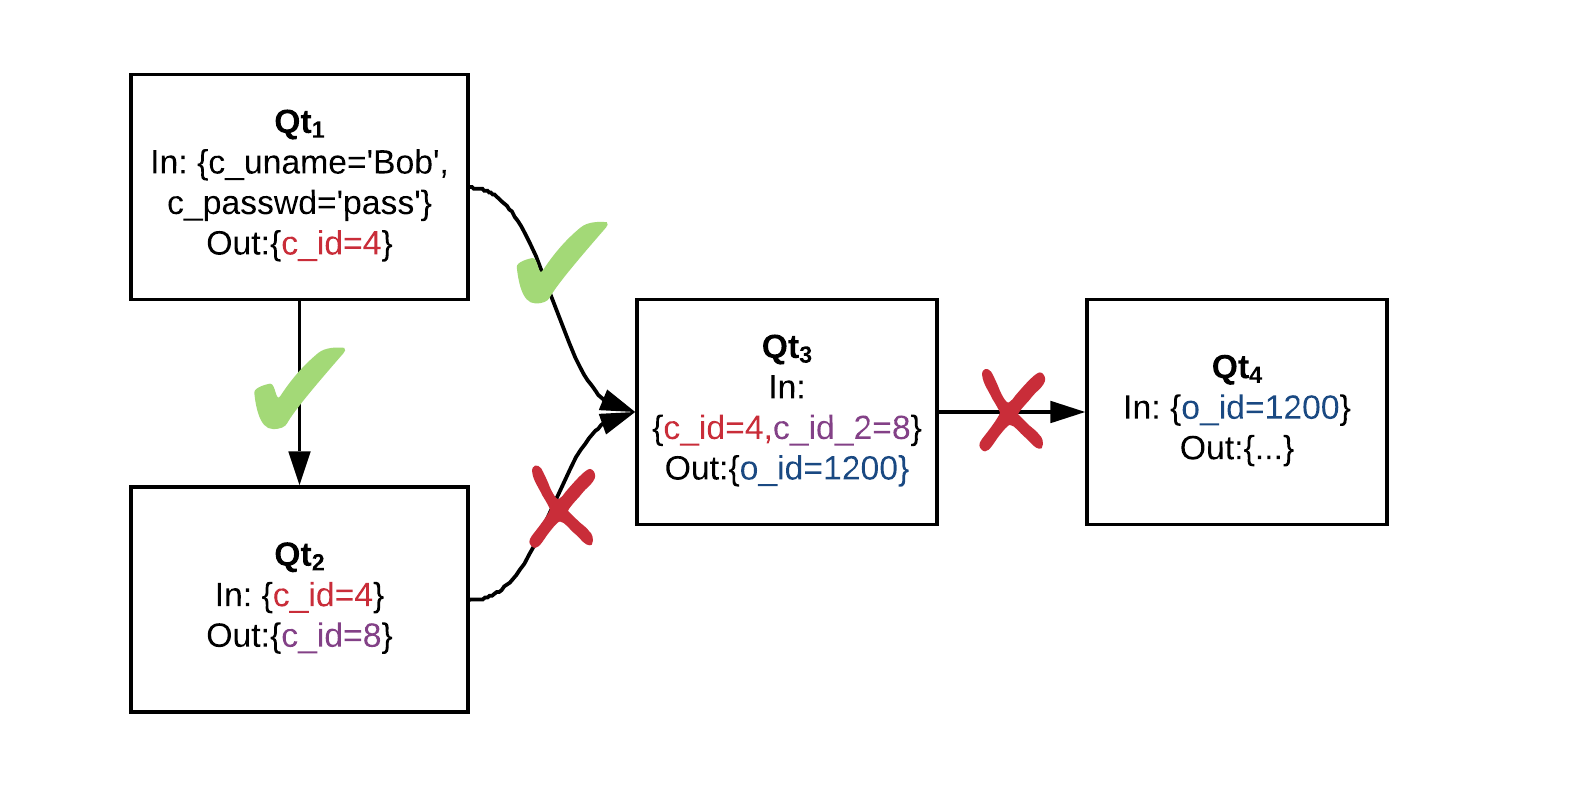
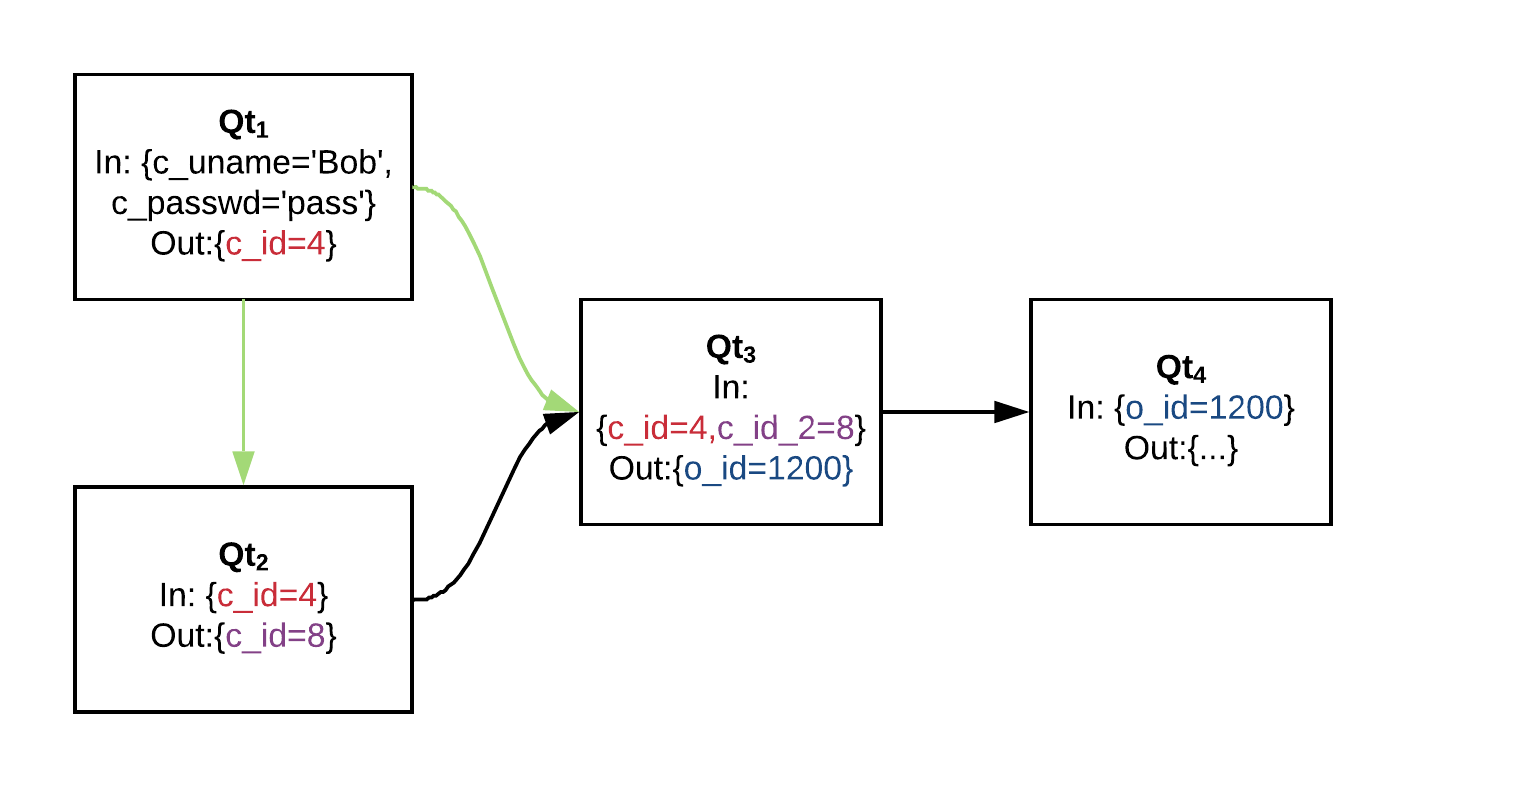
Fix per michael's comments

Changed region(s): [[0.0309, 0.0914, 0.8973, 0.9137], [0.1547, 0.4264, 0.2166, 0.6091]]

diff --git a/demo.tex b/demo.tex
@@ -193,6 +193,56 @@ O_C_ID = (*@ \cfbox{red}{@C\_ID} @*)
 
 \section{Predictive Query Model}
 
+\begin{frame}[fragile]{Apollo Overview}
+    \begin{figure}
+        \hspace*{-1cm}
+        \includegraphics[scale=0.13]{apollo_overview}
+    \end{figure}
+\end{frame}
+
+\begin{frame}[fragile]{Apollo Overview}
+    \begin{figure}
+        \hspace*{-1cm}
+        \includegraphics[scale=0.13]{apollo_overview_2}
+    \end{figure}
+\end{frame}
+
+\begin{frame}[fragile]{Apollo Overview}
+    \begin{figure}
+        \hspace*{-1cm}
+        \includegraphics[scale=0.13]{apollo_overview_3}
+    \end{figure}
+\end{frame}
+
+\begin{frame}[fragile]{Apollo Overview}
+    \begin{figure}
+        \hspace*{-1cm}
+        \includegraphics[scale=0.13]{apollo_overview_4}
+    \end{figure}
+\end{frame}
+
+\begin{frame}[fragile]{Apollo Overview}
+    \begin{figure}
+        \hspace*{-1cm}
+        \includegraphics[scale=0.13]{apollo_overview_5}
+    \end{figure}
+\end{frame}
+
+\begin{frame}[fragile]{Apollo Overview}
+    \begin{figure}
+        \hspace*{-1cm}
+        \includegraphics[scale=0.13]{apollo_overview_6}
+    \end{figure}
+\end{frame}
+
+\begin{frame}[fragile]{Apollo Overview}
+    \begin{figure}
+        \hspace*{-1cm}
+        \includegraphics[scale=0.13]{apollo_overview_7}
+    \end{figure}
+\end{frame}
+
+
 
 \begin{frame}[fragile]{A Query Submission}
     \begin{center}
@@ -204,7 +254,13 @@ O\_C\_ID = \cfbox{red}{3}
     \end{center}
 \end{frame}
 
-\begin{frame}[fragile]{Abstracting to Query Templates}
+
+\begin{frame}[fragile]{Query Templates}
+    Two query instances, $Q_1$, $Q_2$ share the same \alert{query template} if they have the same
+    query text modulo \emph{parameterizable constants}.
+\end{frame}
+
+\begin{frame}[fragile]{Abstracting Query Instances to Query Templates}
     \begin{center}
 SELECT \cfbox{red}{C\_ID} FROM CUSTOMER WHERE
 C\_UNAME = \textbf{?} and C\_PASSWD = \textbf{?}
@@ -213,6 +269,7 @@ SELECT MAX(O\_ID) FROM ORDERS WHERE
 O\_C\_ID = \cfbox{red}{\textbf{?}}
     \end{center}
 \end{frame}
+
 
 \begin{frame}[fragile]{Client Query Streams}
     \begin{figure}
@@ -259,6 +316,14 @@ O\_C\_ID = \cfbox{red}{\textbf{?}}
 
 \begin{frame}[fragile]{Client Query Streams}
     \begin{figure}
+        \includegraphics[scale=0.2]{apollo_client_query_stream_2_1}
+    \end{figure}
+\end{frame}
+
+
+
+\begin{frame}[fragile]{Client Query Streams}
+    \begin{figure}
         \includegraphics[scale=0.2]{apollo_client_query_stream_3}
     \end{figure}
 \end{frame}
@@ -280,7 +345,8 @@ O\_C\_ID = \cfbox{red}{\textbf{?}}
         \includegraphics[scale=0.2]{apollo_transition_graph}
     \end{figure}
     \visible<2->{
-        $P(Qt_{2}|Qt_{1};T\leq\Delta t) = \frac{75}{75} = 1$\\
+        Probability of seeing $Qt_{2}$ within sliding window after we've seen $Qt_{1}$:\\
+        $P(Qt_{2}|Qt_{1};T\leq\Delta t) = \frac{\textrm{times } Qt_{2} \textrm{ executed within window of } Qt_{1}}{\textrm{times } Qt_{1} \textrm{ executed}} =\frac{75}{75} = 1$\\
     }
     \visible<3->{
         $P(Qt_{3}|Qt_{1};T\leq\Delta t) = \frac{10}{50} = \frac{1}{5}$
@@ -292,7 +358,7 @@ O\_C\_ID = \cfbox{red}{\textbf{?}}
     \begin{itemize}
         \item{How often a query template is executed}
         \visible<2->{
-        \item{Which query templates are \alert{correlated} with each other. If correlation is sufficient high ($> \tau$ threshold), then we
+        \item{Which query templates are \alert{correlated} with each other. If correlation is sufficient high ($>$ correlation threshold), then we
         monitor input and output sets for the queries.}
         }
     \end{itemize}
@@ -331,7 +397,7 @@ O\_C\_ID = \cfbox{red}{\textbf{?}}
     \end{figure}
 \end{frame}
 
-\begin{frame}[fragile]{Formalizing...}
+\begin{frame}[fragile]{Fully Defined Queries}
 A \alert{fully defined query template} (FDQ) $\mathit{Qt}_j$ has all of its inputs provided
 by some set, possibly empty, of prior query templates $\mathit{Qt_i}_1, \mathit{Qt_i}_2, \ldots, \mathit{Qt_i}_m$.
 \end{frame}
@@ -350,8 +416,9 @@ by some set, possibly empty, of prior query templates $\mathit{Qt_i}_1, \mathit{
 \end{frame}
 
 \begin{frame}[fragile]{On Write FDQs}
-    Although some write queries (INSERT/UPDATE/DELETE) \alert{could} be predicted, incorrect predictions would result
-    in modified database state that would need to be undone later.
+    Although some write queries (INSERT/UPDATE/DELETE) \alert{could} be predicted, incorrect predictive executions of such queries would result
+    in modified database state that would need to be undone later.\\
+
     By predictively executing only read queries, we keep our caching behaviour \alert{strictly complementary}.
 \end{frame}
 
@@ -413,62 +480,13 @@ Reload an ADQ after executing a write query if:
     }
     \visible<3->{
     \item{The ADQ is considered \alert{valuable}: \\
-$P(\mathit{Qt})\cdot C(\mathit{Qt}) \geq \alpha$
+        $P(\mathit{Qt})\cdot C(\mathit{Qt}) \geq \textrm{reload threshold}$
     }
     }
 \end{itemize}
 \end{frame}
 
 \section{Apollo}
-
-\begin{frame}[fragile]{Apollo Overview}
-    \begin{figure}
-        \hspace*{-1cm}
-        \includegraphics[scale=0.13]{apollo_overview}
-    \end{figure}
-\end{frame}
-
-\begin{frame}[fragile]{Apollo Overview}
-    \begin{figure}
-        \hspace*{-1cm}
-        \includegraphics[scale=0.13]{apollo_overview_2}
-    \end{figure}
-\end{frame}
-
-\begin{frame}[fragile]{Apollo Overview}
-    \begin{figure}
-        \hspace*{-1cm}
-        \includegraphics[scale=0.13]{apollo_overview_3}
-    \end{figure}
-\end{frame}
-
-\begin{frame}[fragile]{Apollo Overview}
-    \begin{figure}
-        \hspace*{-1cm}
-        \includegraphics[scale=0.13]{apollo_overview_4}
-    \end{figure}
-\end{frame}
-
-\begin{frame}[fragile]{Apollo Overview}
-    \begin{figure}
-        \hspace*{-1cm}
-        \includegraphics[scale=0.13]{apollo_overview_5}
-    \end{figure}
-\end{frame}
-
-\begin{frame}[fragile]{Apollo Overview}
-    \begin{figure}
-        \hspace*{-1cm}
-        \includegraphics[scale=0.13]{apollo_overview_6}
-    \end{figure}
-\end{frame}
-
-\begin{frame}[fragile]{Apollo Overview}
-    \begin{figure}
-        \hspace*{-1cm}
-        \includegraphics[scale=0.13]{apollo_overview_7}
-    \end{figure}
-\end{frame}
 
 \begin{frame}[fragile]{Apollo Architecture}
     \begin{figure}
@@ -512,25 +530,9 @@ $P(\mathit{Qt})\cdot C(\mathit{Qt}) \geq \alpha$
     \end{figure}
 \end{frame}
 
-\begin{frame}[fragile]{Cache Matching}
-Key query results by \alert{hash of query template} and parameter values.
-\begin{itemize}
-    \item{Fast lookup for incoming queries}
-    \item{Avoids \alert{query containment}, but cannot use portions of result sets shared by other queries}
-\end{itemize}
-\end{frame}
-
 \begin{frame}[fragile]{Publish---Subscribe Model}
 Concurrent requests proxied to the remote DB or memcached for the same read-query will be blocked until the original query has returned.
 That query's result set will be \alert{forwarded} to the others.
-\end{frame}
-
-\begin{frame}[fragile]{Cache Invalidation}
-Standard approaches to invalidate caches will not scale globally!\\
-\medskip
-\visible<2->{
-Use \alert{client sessions} and Memcached's LRU to invalidate and implicitly evict
-}
 \end{frame}
 
 \begin{frame}[fragile]{Client Sessions}
@@ -563,44 +565,41 @@ Clients are guaranteed to see state at least as recent as what they last read/wr
 
 \begin{frame}[fragile]{Benefits}
     \begin{itemize}
-        \item{Only \alert{local instance} needs to track client's session.}
         \item{No global cache invalidations.}
         \item{Can predict whether a prefetched query result will be used before invalidation!}
     \end{itemize}
 \end{frame}
 
-\begin{frame}[fragile]{Session-Aware Caching}
+\begin{frame}[fragile]{Prediction Invalidation Detection}
     \begin{figure}
         \includegraphics[scale=0.22]{apollo_query_pipeline}
     \end{figure}
 \end{frame}
 
-\begin{frame}[fragile]{Session-Aware Caching}
+\begin{frame}[fragile]{Prediction Invalidation Detection}
     \begin{figure}
         \center
         \includegraphics[scale=0.22]{apollo_write_boundary}
     \end{figure}
 \end{frame}
 
-\begin{frame}[fragile]{Session-Aware Caching}
+\begin{frame}[fragile]{Prediction Invalidation Detection}
     \begin{figure}
         \center
         \includegraphics[scale=0.22]{apollo_write_boundary_2}
     \end{figure}
 \end{frame}
 
-\begin{frame}[fragile]{Session-Aware Caching}
-    Before predictively executing any FDQ $f$, check if there are upcoming writes that would
-    invalidate the results!
+\begin{frame}[fragile]{Prediction Invalidation Caching}
     \begin{itemize}
     \visible<2->{
     \item{Maintain multiple client query graphs with different $\Delta t$ widths}
-    \item{Find the query graph with width $\Delta t$ greater than that matches of $f$'s estimated response time}
-    \item{Crawl forward from client's last executed query and calculate likelihood of query occurring that will invalidate $f$}
+    \item{Consult client query graphs to see if a query is likely to occur that would invalidate the results of our predictively executed query}
     }
     \end{itemize}
 \end{frame}
 
+\begin{comment}
 \begin{frame}[fragile]{Example}
     \alert{Problem:}\\
     Result set from client submitted $\mathit{Qt}_1$ just came back. We have complete mappings from $\mathit{Qt}_1$ to
@@ -679,6 +678,7 @@ Clients are guaranteed to see state at least as recent as what they last read/wr
         $\mathit{Qt}_w$ will increase the client's session, so predictively executing $\mathit{Qt}_3$ is unlikely to be useful.
     }
 \end{frame}
+\end{comment}
 
 \begin{frame}[allowframebreaks]
     \bibliographystyle{abbrv}
